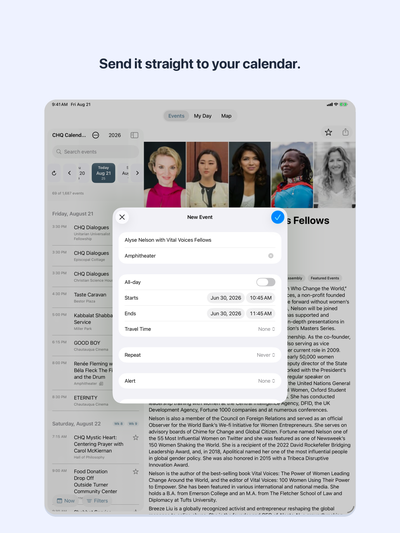
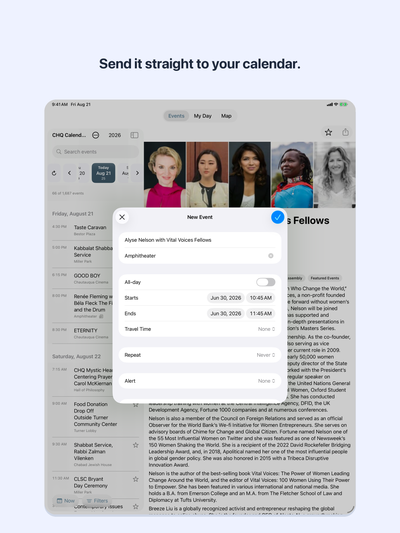
fix(ios): scope the App Store detail-pane selection to the landed day
`01-season`'s iPad shot combines `-uitest-go-to-day` (lands the rail on
a named day) with `-uitest-select-event-index` (populates the detail
column so the shot isn't two-thirds empty). The two hooks were entirely
independent: the index picked from the season-wide richest-linked-event
pool regardless of which day the rail landed on, so the lead App Store
screenshot showed the rail on Thursday July 30 while the detail pane
showed an unrelated Monday July 27 event -- a self-contradicting
first-impression asset once the caption started promising day
navigation (#255).

`AppModel.uiTestLinkedEvent(at:dayKey:)` now takes an optional dayKey
that, when set, filters the ranked pool to that day before picking the
nth-richest event. `CalendarView.applyUITestHooks` threads the day key
validated by `-uitest-go-to-day` through to the selection call.
`dayKey` defaults to nil, which reproduces the exact season-wide
ranking every other caller (including `09-reminder`, which has no day
flag) relies on. Out of range within the day-scoped pool is a no-op,
same as the existing season-wide no-op -- no silent fallback to a
different day's event.

Covered by two new AppModelTests, falsified by hand (broke the
day-scoping, confirmed both new assertions fail, restored, confirmed
green).

Re-captured and recomposed the screenshot set; ipad-13/01-season's
detail pane now shows a July 30 event ("Micah Hendler") beside the
July 30 rail. iphone-6.9/01-season and both 09-reminder shots are
[…]

diff --git a/ios/ChqCalendarTests/AppModelTests.swift b/ios/ChqCalendarTests/AppModelTests.swift
@@ -1994,6 +1994,76 @@ struct AppModelTests {
         #expect(noLinks.uiTestLinkedEvent(at: 0) == nil)
     }
 
+    /// #255: iPad's `01-season` combines `-uitest-go-to-day` (lands the rail
+    /// on a named day) with `-uitest-select-event-index` (populates the
+    /// detail column). Before this fix, the index picked from the
+    /// season-wide richest pool regardless of which day the rail landed on,
+    /// so the rail could show Thursday while the detail pane showed an
+    /// unrelated Monday event — a store screenshot that visibly contradicted
+    /// its own "jump to any day" caption. `dayKey` scopes the pool to the
+    /// landed day *before* ranking by richness.
+    @Test func uiTestLinkedEventDayKeyScopesSelectionToThatDay() throws {
+        let now = try #require(ChqTime.parse("2026-08-03 12:00:00"))
+        let link = ArticleLink(
+            title: "t", url: URL(string: "https://example.com/t")!,
+            kind: .preview, pubDate: "2026-06-30")
+        let model = makeSnapshotModel(
+            events: [
+                // Season-wide richest overall, but lands on Aug 3 — this is
+                // exactly what a day-scoped Aug-4 pick must NOT select.
+                makeEvent(id: "richest-aug3", start: try #require(ChqTime.parse("2026-08-03 19:00:00")),
+                          details: String(repeating: "x", count: 900)),
+                // Two candidates on Aug 4, both lighter than the Aug 3 event,
+                // so their relative order only shows up once scoped to Aug 4.
+                makeEvent(id: "aug4-heavier", start: try #require(ChqTime.parse("2026-08-04 09:00:00")),
+                          details: String(repeating: "x", count: 300)),
+                makeEvent(id: "aug4-lighter", start: try #require(ChqTime.parse("2026-08-04 10:00:00")),
+                          details: String(repeating: "x", count: 100)),
+            ],
+            now: now,
+            articleLinks: [
+                "richest-aug3": [link], "aug4-heavier": [link], "aug4-lighter": [link],
+            ])
+
+        // Sanity: season-wide (no dayKey) index 0 really is the Aug 3 event
+        // — confirms the fixture reproduces the bug's precondition.
+        #expect(model.uiTestLinkedEvent(at: 0)?.id == "richest-aug3")
+
+        // Day-scoped to Aug 4: index 0/1 rank *within that day* only.
+        #expect(model.uiTestLinkedEvent(at: 0, dayKey: "2026-08-04")?.id == "aug4-heavier")
+        #expect(model.uiTestLinkedEvent(at: 1, dayKey: "2026-08-04")?.id == "aug4-lighter")
+
+        // Out of range *within* the day-scoped pool is a no-op — it must NOT
+        // silently fall back to the season-wide pool, which does have a
+        // valid index 2 ("richest-aug3", wrong day).
+        #expect(model.uiTestLinkedEvents.count == 3)
+        #expect(model.uiTestLinkedEvent(at: 2, dayKey: "2026-08-04") == nil)
+    }
+
+    /// `dayKey: nil` (the default) must reproduce season-wide ranking
+    /// byte-for-byte — `09-reminder`'s `-uitest-select-event-index 2` passes
+    /// no day flag and must not shift when this parameter was added.
+    @Test func uiTestLinkedEventWithoutDayKeyMatchesSeasonWideSelection() throws {
+        let now = try #require(ChqTime.parse("2026-08-03 12:00:00"))
+        let link = ArticleLink(
+            title: "t", url: URL(string: "https://example.com/t")!,
+            kind: .preview, pubDate: "2026-06-30")
+        let model = makeSnapshotModel(
+            events: [
+                makeEvent(id: "a", start: try #require(ChqTime.parse("2026-08-03 19:00:00")),
+                          details: String(repeating: "x", count: 900)),
+                makeEvent(id: "b", start: try #require(ChqTime.parse("2026-08-04 10:00:00")),
+                          details: String(repeating: "x", count: 500)),
+                makeEvent(id: "c", start: try #require(ChqTime.parse("2026-08-05 10:00:00")),
+                          details: String(repeating: "x", count: 100)),
+            ],
+            now: now,
+            articleLinks: ["a": [link], "b": [link], "c": [link]])
+
+        #expect(model.uiTestLinkedEvent(at: 2) == model.uiTestLinkedEvent(at: 2, dayKey: nil))
+        #expect(model.uiTestLinkedEvent(at: 2)?.id == "c")
+    }
+
     // MARK: - legacy filter casing normalization
 
     /// Prior to this branch, `selectedLocations`/`selectedCategories` were

diff --git a/ios/ChqCalendar/App/AppModel.swift b/ios/ChqCalendar/App/AppModel.swift
@@ -1730,14 +1730,34 @@ final class AppModel {
     /// columns are always visible, so `01-season` and `04-detail` were
     /// selecting the same event and capturing byte-identical images.
     ///
-    /// Out of range returns `nil`, which makes the hook a **no-op** (the
-    /// detail column stays on its "Select an event" placeholder) rather
-    /// than clamping to the nearest valid index. Clamping would silently
-    /// capture a *different, plausible-looking* event than the plan asked
-    /// for, and a typo'd index would ship a wrong-but-believable store
+    /// `dayKey`, when non-nil, scopes the ranked pool to events whose
+    /// `ChqTime.dayKey(for: event.start)` equals it *before* picking the
+    /// `index`-th richest — so a shot that also lands the rail on that day
+    /// via `-uitest-go-to-day` gets a detail pane whose date agrees with the
+    /// rail, instead of the season-wide richest event landing on an
+    /// unrelated day (#255: iPad's `01-season` showed the rail on one day
+    /// and the detail column on another once the caption started promising
+    /// day navigation). `dayKey` defaults to `nil`, reproducing the exact
+    /// season-wide ranking every other caller relies on — `09-reminder`'s
+    /// `-uitest-select-event-index 2` carries no day flag and must not
+    /// shift.
+    ///
+    /// Out of range — within the day-scoped pool when `dayKey` is set, or
+    /// the season-wide pool otherwise — returns `nil`, which makes the hook
+    /// a **no-op** (the detail column stays on its "Select an event"
+    /// placeholder) rather than clamping to the nearest valid index, or
+    /// (when day-scoped) falling back to the season-wide pool. Either kind
+    /// of silent substitution would capture a *different, plausible-looking*
+    /// event than the plan asked for — a typo'd index, or a day with fewer
+    /// linked events than expected, would ship a wrong-but-believable store
     /// screenshot. A no-op is visible in the review pass instead.
-    func uiTestLinkedEvent(at index: Int) -> Event? {
-        let events = uiTestLinkedEvents
+    func uiTestLinkedEvent(at index: Int, dayKey: String? = nil) -> Event? {
+        let events: [Event]
+        if let dayKey {
+            events = uiTestLinkedEvents.filter { ChqTime.dayKey(for: $0.start) == dayKey }
+        } else {
+            events = uiTestLinkedEvents
+        }
         guard events.indices.contains(index) else { return nil }
         return events[index]
     }

diff --git a/ios/ChqCalendar/Features/Calendar/CalendarView.swift b/ios/ChqCalendar/Features/Calendar/CalendarView.swift
@@ -286,11 +286,18 @@ struct CalendarView: View {
         // shortcut around it. A non-canonical key is ignored (the link is
         // never constructed), leaving the launch behaving as if the flag were
         // absent.
+        //
+        // `uiTestDayKey` is captured alongside so `-uitest-select-event-index`
+        // below can scope its selection pool to this day (see that flag's
+        // comment) — must be declared before that block runs, and it is: this
+        // block is handled first.
+        var uiTestDayKey: String?
         if let flagIndex = arguments.firstIndex(of: "-uitest-go-to-day"),
            arguments.index(after: flagIndex) < arguments.endIndex {
             let key = arguments[arguments.index(after: flagIndex)]
             if ChqTime.isCanonicalDayKey(key) {
                 model.pendingDeepLink = .day(key: key)
+                uiTestDayKey = key
             }
         }
 
@@ -339,7 +346,21 @@ struct CalendarView: View {
             // before concluding there's really nothing to select.
             await model.refresh(force: true)
         }
-        guard let event = model.uiTestLinkedEvent(at: requestedIndex ?? 0) else { return }
+        // `uiTestDayKey` (non-nil only when `-uitest-go-to-day` landed on a
+        // canonical day above, in the *same* launch) scopes the selection
+        // pool to that day. Without this, `01-season` on iPad picked the
+        // season-wide richest linked event independent of `-uitest-go-to-day`
+        // — the rail could land on one day while the detail column showed an
+        // event from another, contradicting a caption that now promises "jump
+        // to any day" (#255). `nil` reproduces the exact season-wide behavior
+        // every other caller relies on — `09-reminder`'s
+        // `-uitest-select-event-index 2` carries no day flag and must not
+        // shift. Out of range inside the scoped-to-that-day pool is a no-op
+        // (nil), the same as the season-wide case: it leaves the detail
+        // column on its placeholder, visible in review, rather than silently
+        // falling back to a season-wide (and therefore possibly
+        // wrong-day) pick.
+        guard let event = model.uiTestLinkedEvent(at: requestedIndex ?? 0, dayKey: uiTestDayKey) else { return }
         route(to: event)
 
         if arguments.contains("-uitest-show-add-to-calendar") {
